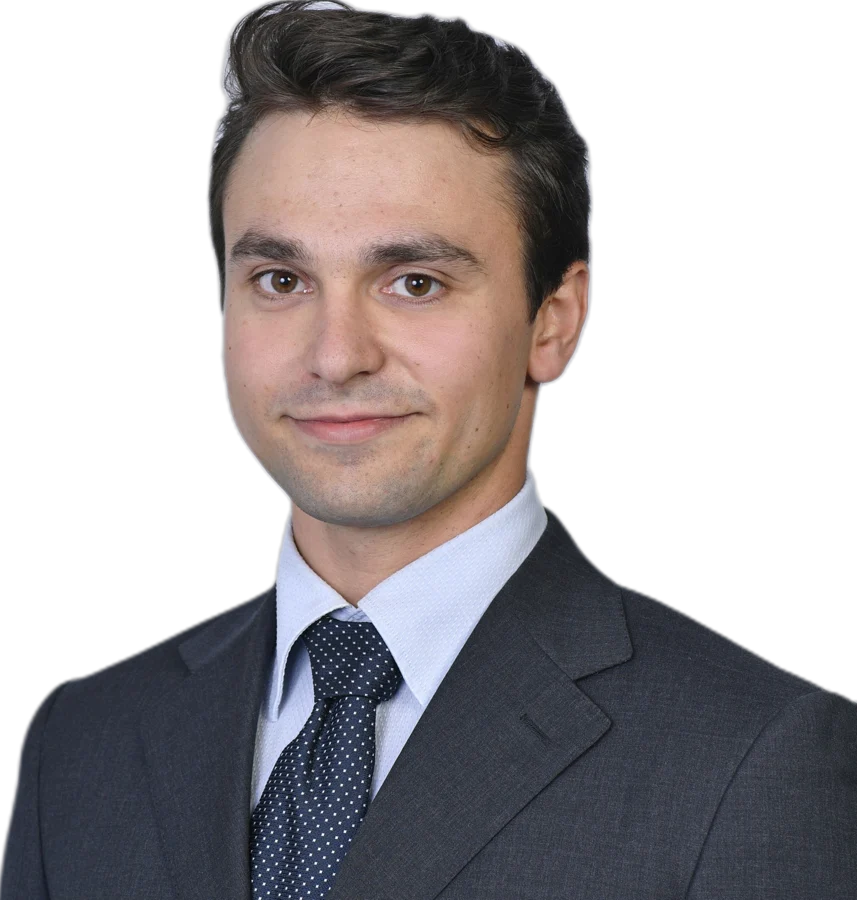
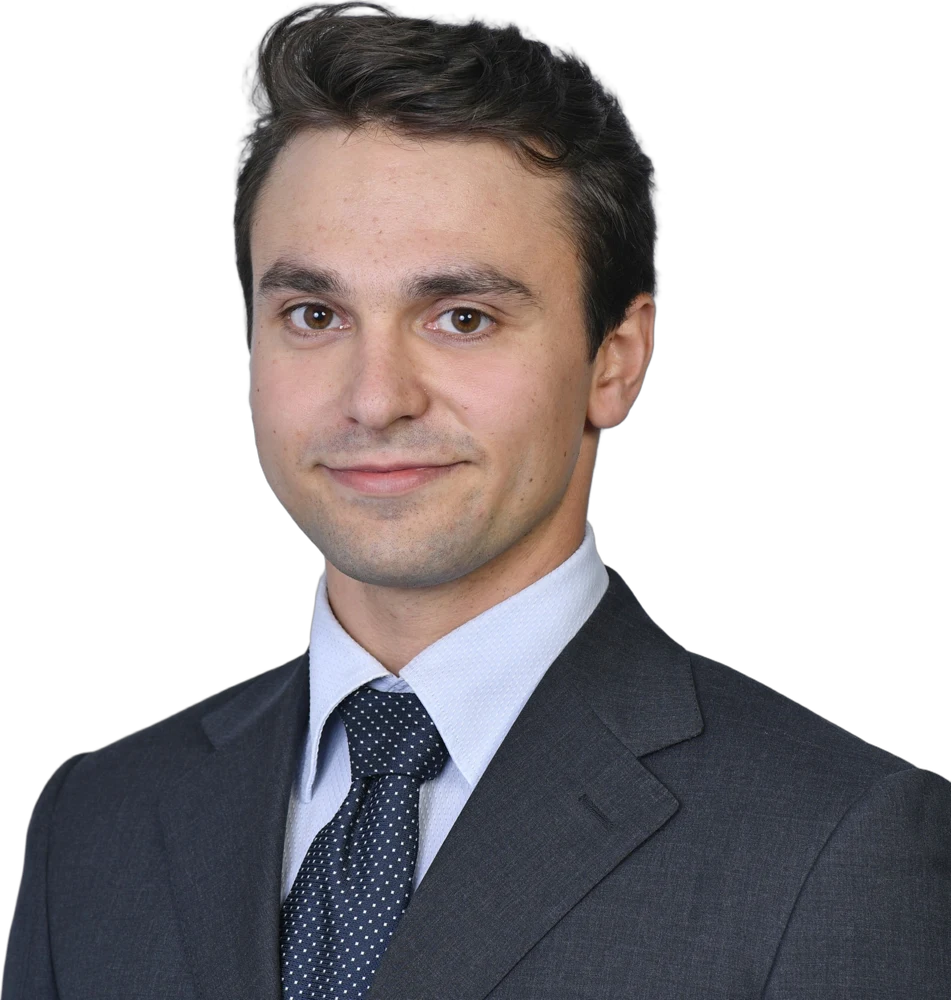
Bänder entfernen, Zitat über dem Siebengebirge, Porträt sauberer freigestellt
Claude-Session: https://claude.ai/code/session_012kbLunVpMj6BAcUJzpMkhf

diff --git a/assets/style.css b/assets/style.css
@@ -62,18 +62,10 @@ nav a:hover { opacity: 1; }
 .hero-text { display: grid; gap: 28px; max-width: 34rem; }
 .hero h1 { font-size: clamp(3.4rem, 10vw, 7.8rem); letter-spacing: -.02em; line-height: .92; }
 .hero h1 em { font-style: italic; color: var(--brass); }
-.cutout { position: absolute; right: max(2vw, 16px); bottom: 0; z-index: 1; height: 84%; width: auto; max-width: 56%; object-fit: contain; object-position: bottom; }
+.cutout { position: absolute; right: 0; bottom: 0; z-index: 1; height: 88%; width: auto; max-width: 60%; object-fit: contain; object-position: bottom; }
 .actions { display: flex; flex-wrap: wrap; gap: 12px; }
 .btn { display: inline-flex; align-items: center; gap: 10px; padding: 13px 24px; border: 1px solid var(--ink); background: var(--ink); color: var(--paper); font: 600 .95rem var(--body); text-decoration: none; cursor: pointer; }
 .btn.line { background: transparent; color: var(--ink); }
-
-/* Wort-Bänder als Übergang */
-.band { overflow: hidden; white-space: nowrap; padding-block: 22px; border-block: 1px solid var(--line); }
-.band-track { display: inline-flex; animation: drift 70s linear infinite; }
-.band.reverse .band-track { animation-direction: reverse; animation-duration: 80s; }
-.band span { font-family: var(--caps); font-weight: 500; text-transform: uppercase; letter-spacing: .22em; font-size: clamp(1rem, 2.2vw, 1.45rem); color: var(--muted); padding-right: 2.2em; }
-.band span::after { content: "·"; padding-left: 2.2em; color: var(--brass); }
-@keyframes drift { from { transform: translateX(0); } to { transform: translateX(-50%); } }
 
 section { padding-block: 104px; }
 .head { display: grid; gap: 14px; margin-bottom: 48px; max-width: 46em; }
@@ -87,9 +79,6 @@ section { padding-block: 104px; }
 .cv dd { margin: 0; min-width: 0; }
 .li-icon { display: inline-flex; width: 44px; height: 44px; align-items: center; justify-content: center; background: var(--ink); color: var(--paper); text-decoration: none; transition: background .3s; }
 .li-icon:hover { background: var(--brass); }
-.quote { margin: 40px 0 0; display: grid; gap: 14px; max-width: 34em; }
-.quote p { font-family: var(--display); font-style: italic; font-size: clamp(1.5rem, 3vw, 2.2rem); line-height: 1.3; text-wrap: balance; }
-.quote footer { font-family: var(--caps); text-transform: uppercase; letter-spacing: .16em; font-size: .8rem; color: var(--brass); }
 
 /* Beratung */
 .offers { display: grid; grid-template-columns: repeat(2, 1fr); border-top: 1px solid var(--ink); }
@@ -99,8 +88,11 @@ section { padding-block: 104px; }
 .offer .meta { font-family: var(--caps); text-transform: uppercase; letter-spacing: .12em; font-size: .78rem; color: var(--muted); }
 
 /* Landschafts-Fenster vor dem Kontakt */
-.window { height: clamp(260px, 42vw, 520px); background: url("img/drachenfels-doerrstock.jpg") 50% 30% / cover no-repeat fixed; position: relative; }
-.window::before, .window::after { content: ""; position: absolute; left: 0; right: 0; height: 90px; }
+.window { min-height: clamp(420px, 56vw, 680px); background: radial-gradient(ellipse 60% 45% at 50% 50%, rgba(10,14,24,.45), rgba(10,14,24,0)) fixed, url("img/drachenfels-doerrstock.jpg") 50% 30% / cover no-repeat fixed; position: relative; display: grid; place-items: center; padding: 120px max(16px, env(safe-area-inset-right, 0px)) 120px max(16px, env(safe-area-inset-left, 0px)); }
+.window-quote { position: relative; z-index: 1; margin: 0; max-width: 36rem; text-align: center; display: grid; gap: 16px; color: #fff; text-shadow: 0 2px 18px rgba(0,0,0,.55); }
+.window-quote p { font-family: var(--display); font-style: italic; font-size: clamp(1.6rem, 3.6vw, 2.6rem); line-height: 1.3; text-wrap: balance; }
+.window-quote footer { font-family: var(--caps); text-transform: uppercase; letter-spacing: .2em; font-size: .85rem; color: #f1d9a6; }
+.window::before, .window::after { content: ""; position: absolute; left: 0; right: 0; height: 140px; }
 .window::before { top: 0; background: linear-gradient(180deg, var(--paper), var(--veil-none)); }
 .window::after { bottom: 0; background: linear-gradient(0deg, var(--paper), var(--veil-none)); }
 @supports (-webkit-touch-callout: none) { .window { background-attachment: scroll; } }
@@ -130,7 +122,7 @@ footer.site a { text-decoration: none; }
   .hero { min-height: 0; display: block; }
   .hero::before { background: linear-gradient(180deg, var(--veil) 0%, var(--veil) 40%, var(--veil-soft) 62%, var(--veil-none) 85%); }
   .hero .wrap { padding-block: 110px 0; }
-  .cutout { position: relative; display: block; right: auto; height: auto; width: min(78%, 360px); max-width: none; margin: 24px 0 0 auto; }
+  .cutout { position: relative; display: block; right: auto; height: auto; width: min(86%, 400px); max-width: none; margin: 24px 0 0 auto; }
   .about .wrap { grid-template-columns: 1fr; gap: 28px; }
   .offers { grid-template-columns: 1fr; }
   .offer + .offer { padding-left: 0; border-left: 0; border-top: 1px solid var(--line); }
@@ -138,7 +130,6 @@ footer.site a { text-decoration: none; }
   section { padding-block: 72px; }
 }
 @media (prefers-reduced-motion: reduce) {
-  .band-track { animation: none; }
   .js .reveal { opacity: 1; transform: none; transition: none; }
 }
 @media (prefers-reduced-motion: no-preference) { html { scroll-behavior: smooth; } }

diff --git a/index.html b/index.html
@@ -36,12 +36,8 @@
         </div>
       </div>
     </div>
-    <img class="cutout" alt="Porträt von Jakob Massury" width="857" height="900" src="assets/img/jakob-massury.webp">
+    <img class="cutout" alt="Porträt von Jakob Massury" width="951" height="1000" src="assets/img/jakob-massury.webp">
   </section>
-
-  <div class="band" aria-hidden="true">
-    <div class="band-track"><span>Mathematik</span><span>Philosophie</span><span>Finanzen</span><span>Mathematik</span><span>Philosophie</span><span>Finanzen</span><span>Mathematik</span><span>Philosophie</span><span>Finanzen</span><span>Mathematik</span><span>Philosophie</span><span>Finanzen</span></div>
-  </div>
 
   <section class="about" id="ueber-mich">
     <div class="wrap">
@@ -57,23 +53,14 @@
           <div><dt>2018–2022</dt><dd>Bachelor in Mathematik und Philosophie, Universität Heidelberg</dd></div>
         </dl>
         <p><a class="li-icon" href="https://www.linkedin.com/in/jakob-massury" target="_blank" rel="noopener" aria-label="Jakob Massury auf LinkedIn"><svg viewBox="0 0 24 24" width="22" height="22" aria-hidden="true"><path fill="currentColor" d="M20.45 20.45h-3.56v-5.57c0-1.33-.02-3.04-1.85-3.04-1.85 0-2.14 1.45-2.14 2.94v5.67H9.35V9h3.41v1.56h.05c.48-.9 1.64-1.85 3.37-1.85 3.6 0 4.27 2.37 4.27 5.46v6.28zM5.34 7.43a2.06 2.06 0 1 1 0-4.13 2.06 2.06 0 0 1 0 4.13zM7.12 20.45H3.56V9h3.56v11.45zM22.22 0H1.77C.79 0 0 .77 0 1.73v20.54C0 23.23.79 24 1.77 24h20.45c.98 0 1.78-.77 1.78-1.73V1.73C24 .77 23.2 0 22.22 0z"/></svg></a></p>
-        <blockquote class="quote">
-          <p>„Nicht weil es schwer ist, wagen wir es nicht, sondern weil wir es nicht wagen, ist es schwer.“</p>
-          <footer>Seneca</footer>
-        </blockquote>
       </div>
     </div>
   </section>
 
-  <div class="band reverse" aria-hidden="true">
-    <div class="band-track"><span>Heidelberg</span><span>Paris</span><span>Limerick</span><span>Bonn</span><span>Heidelberg</span><span>Paris</span><span>Limerick</span><span>Bonn</span><span>Heidelberg</span><span>Paris</span><span>Limerick</span><span>Bonn</span><span>Heidelberg</span><span>Paris</span><span>Limerick</span><span>Bonn</span></div>
-  </div>
-
   <section id="beratung">
     <div class="wrap">
       <div class="head reveal">
-        <span class="kicker">Beratung</span>
-        <h2>Zu Finanzen und Geldanlage</h2>
+        <h2>Beratung</h2>
       </div>
       <div class="offers reveal">
         <article class="offer">
@@ -88,7 +75,12 @@
     </div>
   </section>
 
-  <div class="window" role="img" aria-label="Drachenfels und Schloss Drachenburg im Siebengebirge"></div>
+  <div class="window" role="img" aria-label="Drachenfels und Schloss Drachenburg im Siebengebirge">
+    <blockquote class="window-quote reveal">
+      <p>„Nicht weil es schwer ist, wagen wir es nicht, sondern weil wir es nicht wagen, ist es schwer.“</p>
+      <footer>Seneca</footer>
+    </blockquote>
+  </div>
 
   <section class="contact-sec" id="kontakt">
     <div class="wrap reveal">
@@ -101,10 +93,6 @@
     </div>
   </section>
 </main>
-
-  <div class="band" aria-hidden="true">
-    <div class="band-track"><span>Bonn</span><span>Siebengebirge</span><span>Rhein</span><span>Bonn</span><span>Siebengebirge</span><span>Rhein</span><span>Bonn</span><span>Siebengebirge</span><span>Rhein</span><span>Bonn</span><span>Siebengebirge</span><span>Rhein</span></div>
-  </div>
 
 <footer class="site">
   <div class="wrap">
